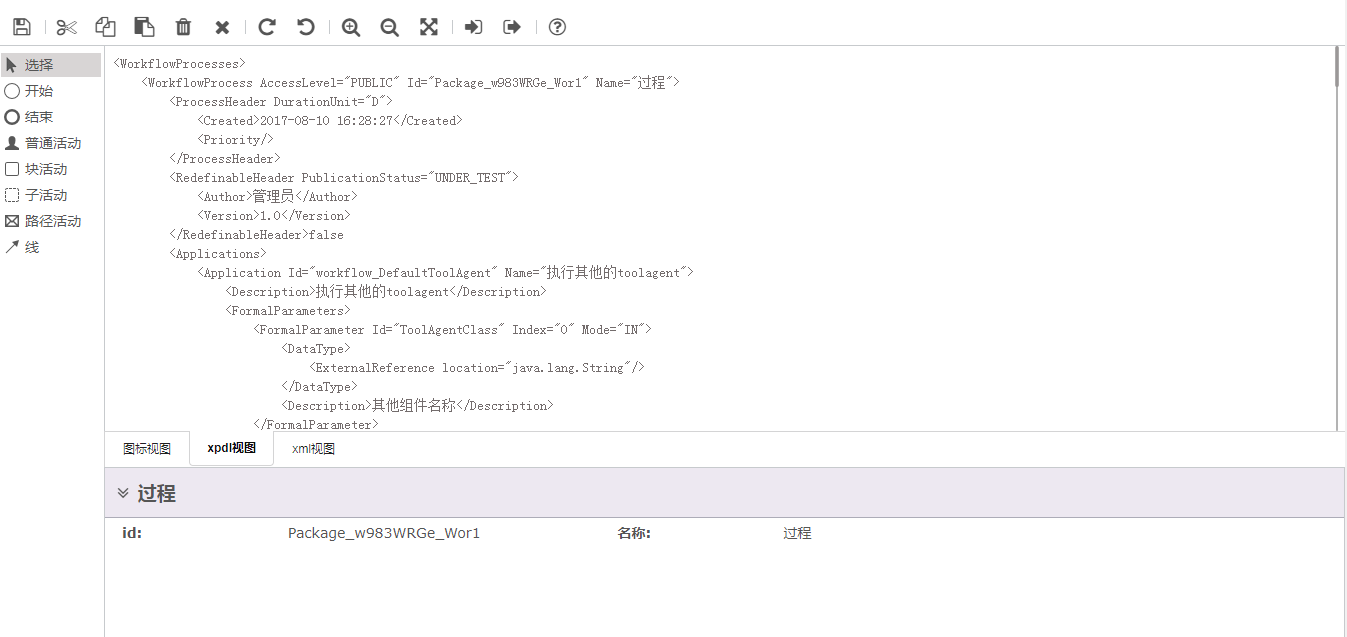
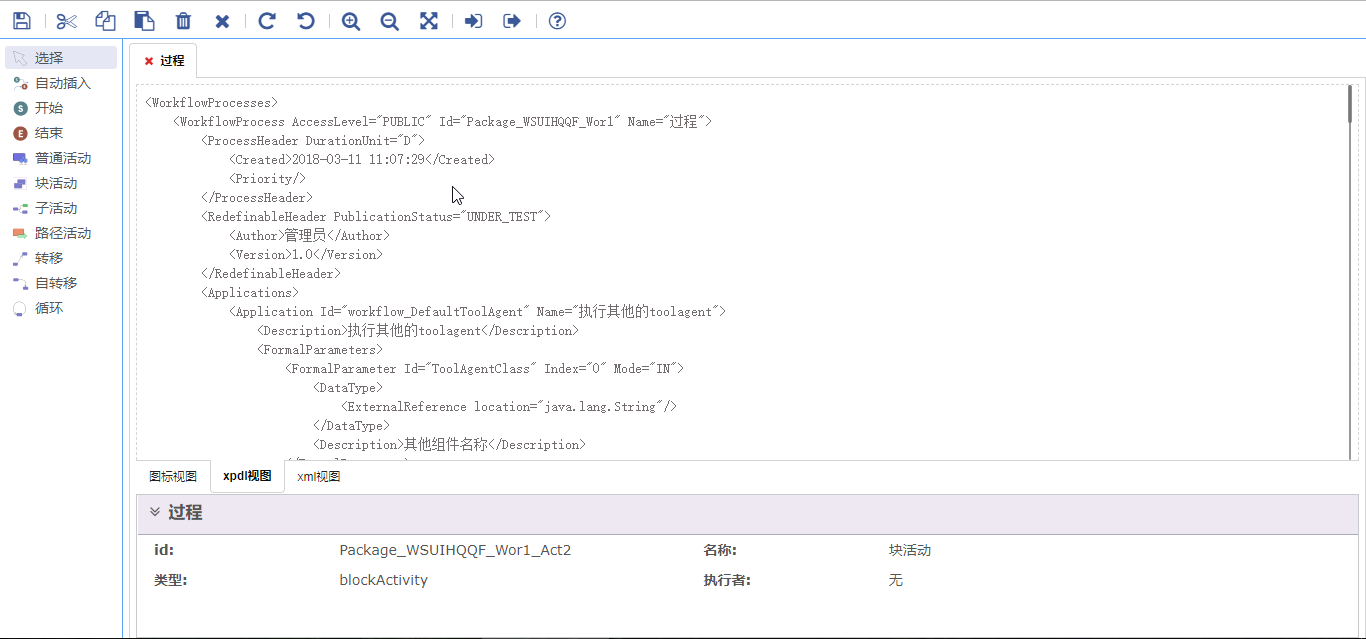
左侧工具栏图标制作替换

Changed region(s): [[0.0, 0.0, 1.0, 1.0], [0.4989, 0.8948, 0.5612, 0.9246], [0.0935, 0.8948, 0.1559, 0.9246]]

diff --git a/flowchart.html b/flowchart.html
@@ -35,43 +35,38 @@
 	</div>
 	<div class="full clearfix">
 		<div id="flowComponents" class="full-left">
-			<div class="components-btn noComponent selectBtn clearfix" name="selectBtn">
-				<div><img src="icons/activity/select.png" draggable="false"><span>选择</span></div>
+			<div class="components-btn noComponent clearfix" name="selectBtn">
+				<div><i class="tools select-icon"></i><span>选择</span></div>
+			</div>
+			<div class="components-btn noComponent" name="" draggable="false">
+				<div><i class="tools addStartEnd-icon"></i><span>自动插入</span></div>
 			</div>
 			<div class="components-btn" name="startComponent" type="start" draggable="true" data-show="S">
-				<div class="components-icon">
-					<svg width="16" height="16" viewBox="0 0 289 289">
-						<path id="S" class="start-icon" d="M144.5,0A144.5,144.5,0,1,1,0,144.5,144.5,144.5,0,0,1,144.5,0ZM181,119c-8.209-7.911-25.13-10.667-32-12-7.214-.082-17.485,1.788-16.952,9.864,1.085,10.755,7.571,11.1,15.952,13.136,0.448,0,2.975.752,8,2,26.264,6.257,43.782,18.7,42,39-2.085,26.338-17,39.717-52.852,38.969C121.884,208.881,106.541,202.449,96,194l13-25c14.5,8.08,23.546,13.093,40,15,12.394-.115,16.541-3.852,17-9,0-8.645-4.731-10.475-21-15-2.245-.615-3.426-0.874-7-2-30.116-9.039-37-21.147-37-38,4.366-26.624,19.627-38.175,50-39,24.324,2.7,34.634,9.409,43,14Z"></path>
-					</svg>
-    			</div>
-    			<span>开始</span>
+				<div><i class="tools start-icon"></i><span>开始</span></div>
 			</div>
 			<div class="components-btn clearfix" name="endComponent" type="end" draggable="true" data-show="E">
-				<div class="components-icon">
-					<svg width="16" height="16">
-						<ellipse stroke="#000" ry="8" rx="8" cx="8" cy="8" stroke-width="0" fill="#9d5644"/>
-						<text stroke="#000" text-anchor="start" font-family="Helvetica" font-size="10" stroke-width="0" fill="#fff" x="5" y="11">E</text>
-					</svg>
-				</div>
-				<span>结束</span>
+				<div><i class="tools end-icon"></i><span>结束</span></div>
 			</div>
 			<div class="components-btn clearfix" name="ordinaryActivity" type="activity" draggable="true" data-show="普通活动">
-				<div><img src="icons/activity/list/type.user.png"><span>普通活动</span></div>
+				<div><i class="tools ordinary-icon"></i><span>普通活动</span></div>
 			</div>
 			<div class="components-btn clearfix" name="blockActivity" type="activity" draggable="true" data-show="块活动">
-				<div><img src="icons/activity/task.png"><span>块活动</span></div>
+				<div><i class="tools block-icon"></i><span>块活动</span></div>
 			</div>
 			<div class="components-btn clearfix" name="subFlowActivity" type="activity" draggable="true" data-show="子活动">
-				<div><img src="icons/activity/event.subprocess.png"><span>子活动</span></div>
+				<div><i class="tools subFlow-icon"></i><span>子活动</span></div>
 			</div>
 			<div class="components-btn clearfix" name="routeActivity" type="activity" draggable="true" data-show="路径活动">
-				<div><img src="icons/activity/list/type.receive.png"><span>路径活动</span></div>
+				<div><i class="tools route-icon"></i><span>路径活动</span></div>
 			</div>
 			<div class="components-btn noComponent clearfix" name="NOROUTING">
-				<div><img src="icons/connector/sequenceflow.png" draggable="false"><span>转移</span></div>
+				<div><i class="tools line-icon"></i><span>转移</span></div>
 			</div>
 			<div class="components-btn noComponent clearfix" name="SIMPLEROUTING">
-				<div><img src="icons/connector/messageflow.png" draggable="false"><span>自转移</span></div>
+				<div><i class="tools polyline-icon"></i><span>自转移</span></div>
+			</div>
+			<div class="components-btn noComponent clearfix" name="000ROUTING">
+				<div><i class="tools loop-icon"></i><span>循环</span></div>
 			</div>
 		</div>
 		<div class="full-right tab clearfix">

diff --git a/css/flowchart.css b/css/flowchart.css
@@ -75,13 +75,13 @@ html, body {
 }
 
 .full-left { 
-    width: 8%; 
+    width: 9%; 
     padding: 5px; 
     border-right: 1px solid #58a5f3;
 }
 
 .full-right { 
-    width: 92%;
+    width: 91%;
     padding-top: 4px;
     padding-left: 6px;
 }
@@ -108,6 +108,7 @@ html, body {
     box-sizing: border-box; 
     border: 1px dashed #FFF; 
 }
+
 .full-right-top.activate {
     border: 1px dashed #37F537;
 }
@@ -177,14 +178,82 @@ html, body {
 }
 
 .components-btn span { 
-    /*float: left; */
-    padding-left: 5px; 
-    /*display: block; */
+    padding-left: 6px; 
 }
 
-.selectBtn { padding-left: 2px; }
+/*------------------------工具栏 icon start------------------------*/
+.full-left .components-btn>div {
+    display: flex;
+}
 
-.selectBtn img { margin: 4px 3px 4px 3px; }
+.full-left i.tools {
+    display: inline-block;
+    width: 16px;
+    height: 16px;
+    margin: 5px 0 0 8px;
+    overflow: hidden;
+}
+
+.full-left .select-icon {
+    background: url('../icons/wf_tools.png');
+    background-position: 0px 0px;
+}
+
+.full-left .addStartEnd-icon {
+    background: url('../icons/wf_tools.png');
+    background-position: 42px 0px;
+}
+
+.full-left .start-icon {
+    background: url('../icons/wf_tools.png');
+    background-position: 81px 0px;
+}
+
+.full-left .end-icon {
+    background: url('../icons/wf_tools.png');
+    background-position: 61px 0px;
+}
+
+.full-left .ordinary-icon {
+    background: url('../icons/wf_tools.png');
+    background-position: 0px 57px;
+}
+
+.full-left .block-icon {
+    background: url('../icons/wf_tools.png');
+    background-position: 80px 57px;
+}
+
+.full-left .subFlow-icon {
+    background: url('../icons/wf_tools.png');
+    background-position: 61px 57px;
+}
+
+.full-left .route-icon {
+    background: url('../icons/wf_tools.png');
+    background-position: 41px 57px;
+}
+
+.full-left .line-icon {
+    background: url('../icons/wf_tools.png');
+    background-position: 0 34px;
+}
+
+.full-left .polyline-icon {
+    background: url('../icons/wf_tools.png');
+    background-position: 81px 34px;
+}
+
+.full-left .loop-icon {
+    background: url('../icons/wf_tools.png');
+    background-position: 60px 34px;
+}
+
+/*------------------------工具栏 icon end------------------------*/
+
+/* .selectBtn { padding-left: 2px; }
+
+.selectBtn img { margin: 4px 3px 4px 3px; }*/
 
 .component { cursor: move; }
 

diff --git a/README.md b/README.md
@@ -12,7 +12,9 @@ SVG实现流程图绘制，前端页面应用：`jquery.js`/`d3.js`/ `semantic.c
 - 产生相应的`xml`和`xpdl`  
 - 保存（还未完成，待更新）  
 ### 产品成果如下：  
->![Image text](https://github.com/zhangyuanliang/flow-chart/blob/master/img/show.gif)     
+>![Image text](https://github.com/zhangyuanliang/flow-chart/blob/master/img/show.gif) 
+#### 主视图  
+>![Image text](https://github.com/zhangyuanliang/flow-chart/blob/master/img/img_3.png)   
 #### Xpdl视图  
 >![Image text](https://github.com/zhangyuanliang/flow-chart/blob/master/img/img_1.png)    
 #### Xml视图
